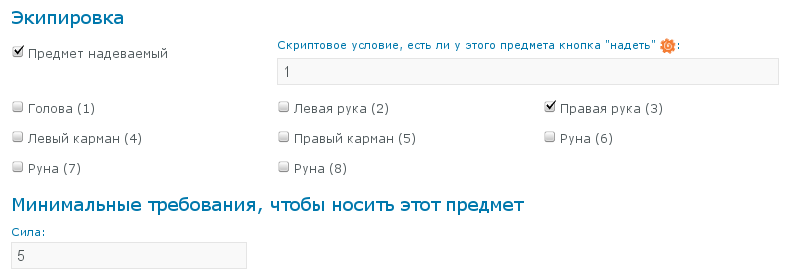
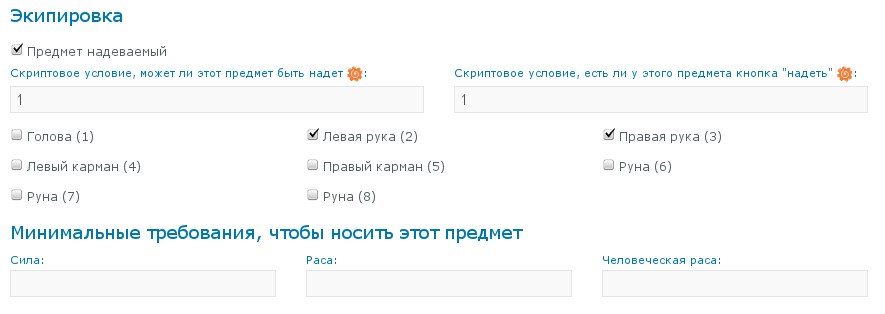
Script condition whether item can be worn

diff --git a/mg/templates/constructor/docs/ru/equip.html b/mg/templates/constructor/docs/ru/equip.html
@@ -53,11 +53,13 @@
 
 <p>Если вы удалите с поля картинку, она автоматически не удалится из хранилища. Чтобы не замусоривать сервер, рекомендуется зайти в административный интерфейс статического хранилища и удалить лишние изображения.</p>
 
+<a name="equip-items"></a>
 <h1>Создание предметов экипировки</h1>
 
-<p>После того, как слоты и их разметка созданы, администратор может создать предметы, надеваемые в эти слоты. Это делается через обычный редактор предметов в меню "Инвентарь / Типы предметов". После того, как игре будет подключен модуль экипировки, в редакторе предмета появится новый раздел "Экипировка", в котором можно установить галочку "Предмет надеваемый" и задать ему характерстики: <img class="doc-screenshot" src="/st/tutorial/equip-6.png" alt="" /></p>
+<p>После того, как слоты и их разметка созданы, администратор может создать предметы, надеваемые в эти слоты. Это делается через обычный редактор предметов в меню "Инвентарь / Типы предметов". После того, как игре будет подключен модуль экипировки, в редакторе предмета появится новый раздел "Экипировка", в котором можно установить галочку "Предмет надеваемый" и задать ему характерстики: <img class="doc-screenshot" src="/st/tutorial/equip-6.png?1" alt="" /></p>
 <ul>
-	<li>Скриптовое условие для кнопки "Надеть" позволяет включать и отключать эту кнопку на предметах. Если кнопка отсутствует, то предмет всё равно может быть надет через клик на свободный слот;</li>
+	<li>скриптовое условие, может ли этот предмет быть надет, позволяет задавать дополнительные требования, помимо минимальных значений параметров, при помощи скриптового выражения. Если это выражение ложно, предмет не сможет быть надет. А если он уже надет, то он "свалится" с персонажа;</li>
+	<li>скриптовое условие для кнопки "Надеть" позволяет включать и отключать кнопку "Надеть" на предметах в инвентаре. Если кнопка отсутствует, то предмет всё равно может быть надет через клик на свободный слот;</li>
 	<li>галочки напротив названий слотов позволяют указать, в какие слоты данный предмет может быть вставлен;</li>
 	<li>в разделе "Требования" можно указать минимальные значения параметров персонажа, которые позволят ему надеть этот предмет. Если поле не заполнено, значит ограничений на значение параметра нет.</li>
 </ul>

diff --git a/mg/mmorpg/equip.py b/mg/mmorpg/equip.py
@@ -256,6 +256,8 @@ class CharacterEquip(ConstructorModule):
                     name = param.get("name")
                     name_g = param.get("name_g", name)
                     return self._("param///{name} is not enough to wear {item_name}").format(name=name, name_g=name_g, item_name=item_type.name, item_name_a=item_type.name_a)
+        if not self.call("script.evaluate-expression", item_type.get("wear_cond", 1), globs={"char": char, "item": item_type}, description=lambda: self._("Whether item {item} ({name}) is wearable").format(item=item_type.uuid, name=item_type.name)):
+            return self._("You can't wear {item_name} at the moment").format(item_name=item_type.name, item_name_a=item_type.name_a)
         return None
 
     def script_attr(self, attr, handle_exceptions=True):
@@ -399,13 +401,14 @@ class EquipAdmin(ConstructorModule):
         self.rhook("admin-storage.group-names", self.group_names)
         self.rhook("admin-storage.nondeletable", self.nondeletable)
         self.rhook("advice-admin-equip.index", self.advice_equip)
+        self.rhook("advice-admin-item-types.index", self.advice_equip)
         self.rhook("admin-gameinterface.design-files", self.design_files)
 
     def design_files(self, files):
         files.append({"filename": "item-hint.html", "description": self._("Item mouse over hint"), "doc": "/doc/equip"})
 
     def advice_equip(self, hook, args, advice):
-        advice.append({"title": self._("Equipment documentation"), "content": self._('You can find detailed information on the characters equipment system in the <a href="//www.%s/doc/equip" target="_blank">equipment page</a> in the reference manual.') % self.app().inst.config["main_host"]})
+        advice.append({"title": self._("Equipment documentation"), "content": self._('You can find detailed information on the characters equipment system in the <a href="//www.%s/doc/equip" target="_blank">equipment page</a> in the reference manual.') % self.app().inst.config["main_host"], "order": 20})
 
     def nondeletable(self, uuids):
         interfaces = self.call("equip.interfaces")
@@ -600,9 +603,11 @@ class EquipAdmin(ConstructorModule):
                 break
         fields.insert(pos, {"type": "header", "html": self._("Equipment")})
         pos += 1
-        fields.insert(pos, {"type": "checkbox", "label": self._("This item is wearable"), "name": "equip", "checked": obj.get("equip"), "flex": 1})
+        fields.insert(pos, {"type": "checkbox", "label": self._("This item is wearable"), "name": "equip", "checked": obj.get("equip")})
         pos += 1
-        fields.insert(pos, {"label": self._("Script condition whether this item has 'wear' button") + self.call("script.help-icon-expressions"), "name": "equip_wear", "value": self.call("script.unparse-expression", obj.get("equip_wear", 1)), "inline": True, "flex": 2, "condition": "[equip]"})
+        fields.insert(pos, {"label": self._("Script condition whether this item can be worn") + self.call("script.help-icon-expressions"), "name": "wear_cond", "value": self.call("script.unparse-expression", obj.get("wear_cond", 1)), "condition": "[equip]"})
+        pos += 1
+        fields.insert(pos, {"label": self._("Script condition whether this item has 'wear' button") + self.call("script.help-icon-expressions"), "name": "equip_wear", "value": self.call("script.unparse-expression", obj.get("equip_wear", 1)), "condition": "[equip]", "inline": True})
         pos += 1
         # checkboxes
         slots = self.call("equip.slots")
@@ -661,6 +666,7 @@ class EquipAdmin(ConstructorModule):
             req = self.req()
             char = self.character(req.user())
             obj.set("equip_wear", self.call("script.admin-expression", "equip_wear", errors, globs={"char": char}))
+            obj.set("wear_cond", self.call("script.admin-expression", "wear_cond", errors, globs={"char": char}))
         else:
             obj.delkey("equip")
 
@@ -1210,7 +1216,7 @@ class Equip(ConstructorModule):
 
     def items_menu(self, character, item_type, menu):
         if item_type.get("equip"):
-            if self.call("script.evaluate-expression", item_type.get("equip_wear", 1), globs={"char": character}, description=lambda: self._("Whether item {item} ({name}) is wearable").format(item=item_type.uuid, name=item_type.name)):
+            if self.call("script.evaluate-expression", item_type.get("equip_wear", 1), globs={"char": character, "item": item_type}, description=lambda: self._("Whether 'wear' button is available on the item {item} ({name})").format(item=item_type.uuid, name=item_type.name)):
                 menu.append({"href": "/equip/item/%s/%s" % (item_type.cat("inventory"), item_type.dna), "html": htmlescape(self._("wear")), "order": 80})
 
     def equip_item(self):
@@ -1234,7 +1240,7 @@ class Equip(ConstructorModule):
             ret(self._("You have no such items"))
         if not item_type.get("equip"):
             ret(self._("This item is not wearable"))
-        if not self.call("script.evaluate-expression", item_type.get("equip_wear", 1), globs={"char": character}, description=lambda: self._("Whether item {item} ({name}) is wearable").format(item=item_type.uuid, name=item_type.name)):
+        if not self.call("script.evaluate-expression", item_type.get("equip_wear", 1), globs={"char": character, "item": item_type}, description=lambda: self._("Whether 'wear' button is available on the item {item} ({name})").format(item=item_type.uuid, name=item_type.name)):
             ret(self._("This item has no 'wear' button"))
         error = equip.cannot_equip(item_type)
         if error:

diff --git a/mg/mmorpg/inventory.py b/mg/mmorpg/inventory.py
@@ -36,6 +36,15 @@ class Item(ConstructorModule):
         self.item_type = item_type
         self.inv = inv
 
+    def __str__(self):
+        return self.item_type.__str__()
+    
+    def __unicode__(self):
+        return self.item_type.__unicode__()
+    
+    def __repr__(self):
+        return self.item_type.__repr__()
+    
     def __getattr__(self, name):
         "Translating ItemType's interface"
         return getattr(self.item_type, name)
